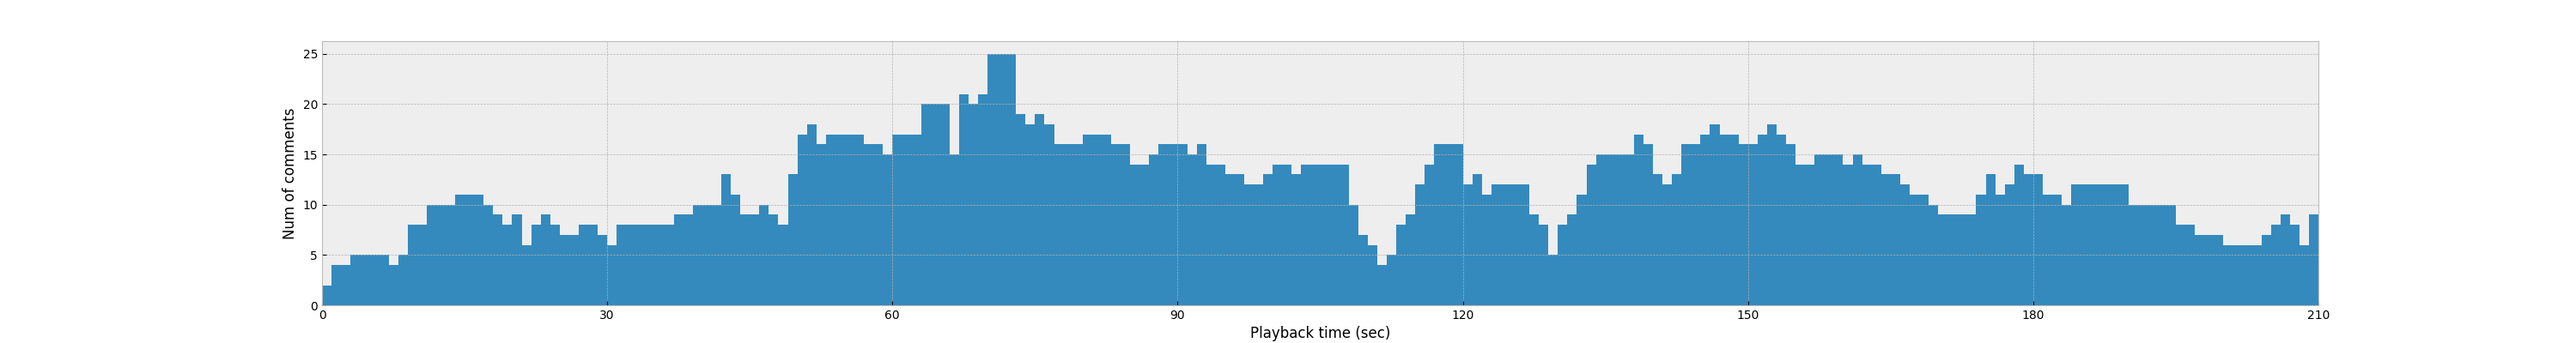
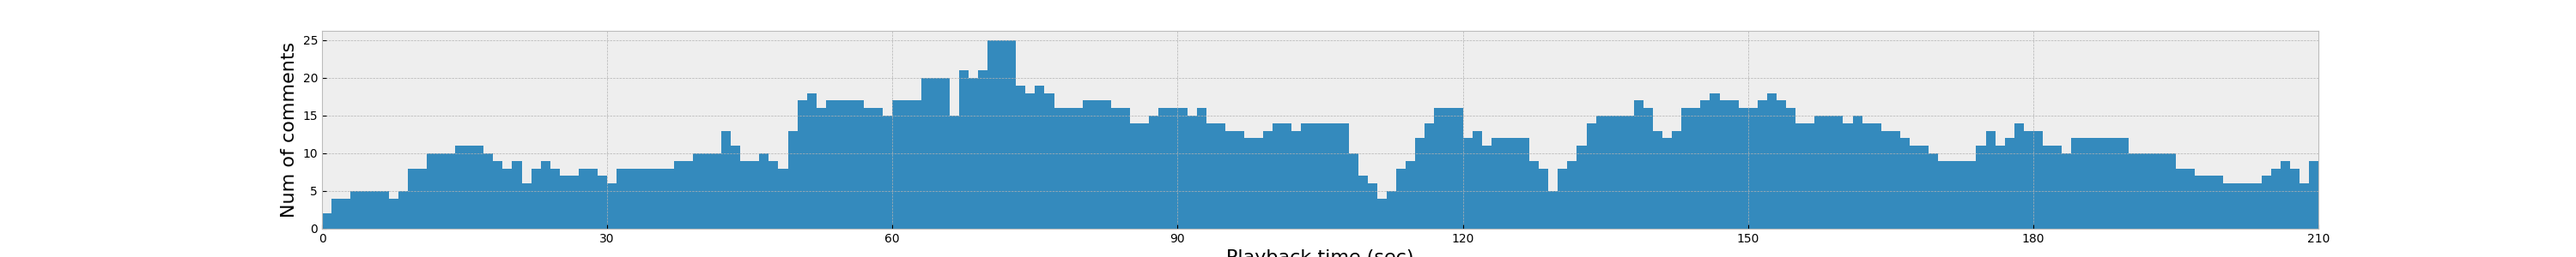
update parser

diff --git a/misc/parser.py b/misc/parser.py
@@ -22,7 +22,7 @@ def parseTimetable(filename):
                 video["starttime"] = min(times)
                 video["endtime"] = max(times)
                 print(order, video["title"])
-                if order > -1:
+                if order < -1:
                     videos[order] = video
             video = {
                 "title": "",
@@ -55,7 +55,7 @@ def parseTimetable(filename):
         video["starttime"] = min(times)
         video["endtime"] = max(times)
         print(order, video["title"])
-        if order > -1:
+        if order < -1:
             videos[order] = video
     return videos
 
@@ -63,12 +63,13 @@ def parseTimetable(filename):
 videos = parseTimetable("timetable.csv")
 # print(videos.keys())
 
-video_numbering = ["R1","R2","R3","R4","R5","R6","T1","T2","N1","W1","M1"]
+# video_numbering = ["R1","R2","R3","R4","R5","R6","T1","T2","N1","W1","M1"]
+video_numbering = ["R7","R8","R9","R10", "N2", "W2", "M2"]
 
 h_pattern = 20
 h_margin = h_pattern*3+30
 top_margin = 80
-left_margin = 670
+left_margin = 710
 right_margin = 20
 bottom_margin = 80
 t_width = 2000
@@ -83,6 +84,7 @@ for i, l in enumerate(legends):
 
 for i, v in videos.items():
     print(i, v)
+    i = -i-2
     texts = v["title"].split(";")
     d.append(draw.Text("[{}] {}".format(video_numbering[i], texts[0]), 24, left_margin-16, t_height-top_margin-h_margin*i-10-26*0, center=1, text_anchor="end", fill="black"))
     if i==6:

diff --git a/misc/hist.py b/misc/hist.py
@@ -25,11 +25,11 @@ for rline in reader:
             values.append(t)
 print(min(values), max(values))
 plt.style.use('bmh')
-plt.figure(figsize=[30,4])
+plt.figure(figsize=[30,3])
 plt.hist(values, bins = video_length)
 plt.xlim(0, video_length)
-plt.xlabel('Playback time (sec)',fontsize=12)
-plt.ylabel('Num of comments',fontsize=12)
+plt.xlabel('Playback time (sec)',fontsize=16)
+plt.ylabel('Num of comments',fontsize=16)
 ax = plt.gca()
 ax.xaxis.set_major_locator(ticker.MultipleLocator(30))
 # plt.title('Comment Distribution',fontsize=12)
